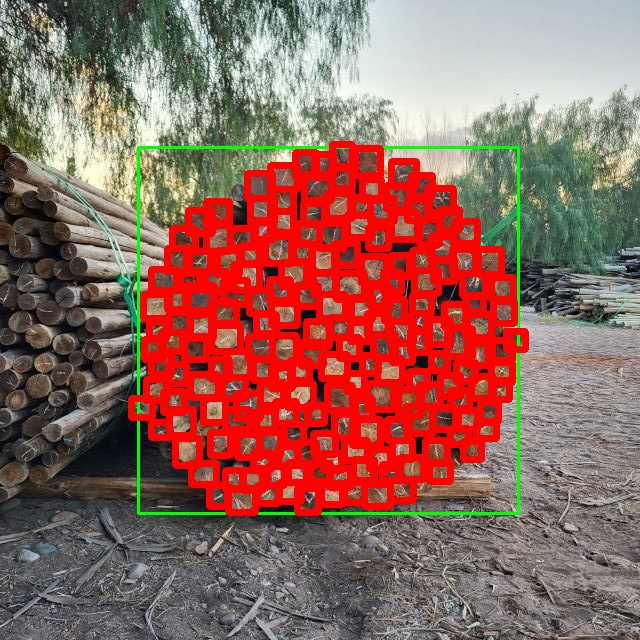
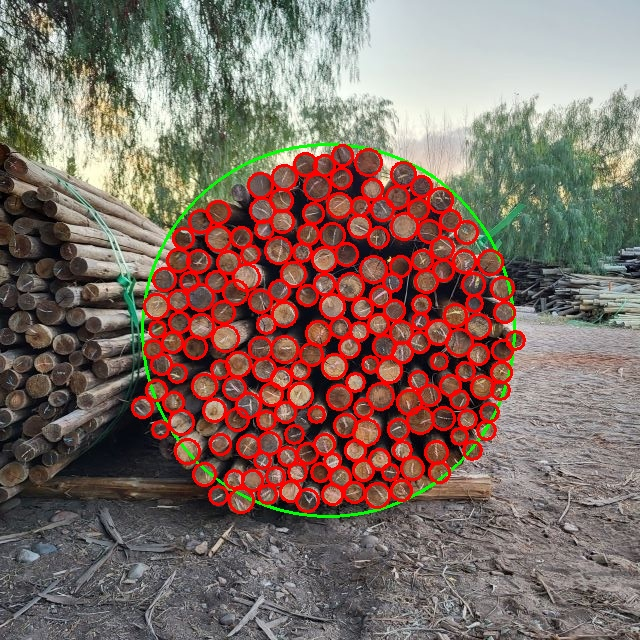
filtrado main package, cirular

Changed region(s): [[0.1875, 0.2188, 0.8438, 0.8125]]

diff --git a/yoloV5/custom_detect.py b/yoloV5/custom_detect.py
@@ -226,12 +226,12 @@ def draw_package_and_sticks(image_path, main_package, sticks_within_package, img
     
     # Dibujar el recuadro del paquete principal en verde
     _, x, y, w, h = main_package*img_size
-    cv2.rectangle(image1, (int(x - w / 2), int(y + h / 2)), (int(x + w / 2), int(y - h / 2)), (0, 255, 0), 2)
-    
+    #cv2.rectangle(image1, (int(x - w / 2), int(y + h / 2)), (int(x + w / 2), int(y - h / 2)), (0, 255, 0), 2)
+    cv2.circle(image1, (int(x), int(y)), int(((w+h)/4)), (0, 255, 0), 2)
     # Dibujar los sticks dentro del paquete en azul
     for stick in sticks_within_package:
         _, x_s, y_s, w_s, h_s = stick*img_size
-        cv2.rectangle(image1, (int(x_s - w_s / 2), int(y_s + h_s / 2)), (int(x_s + w_s / 2), int(y_s - h_s / 2)), (0, 0, 255), -1)
+        cv2.circle(image1, (int(x_s), int(y_s)), int((w_s+h_s)/4), (0, 0, 255), 2)
     
     # Guardar la imagen con los recuadros
     output_path = os.path.join(os.path.dirname(image_path), "image_main_with_boxes.jpeg")
